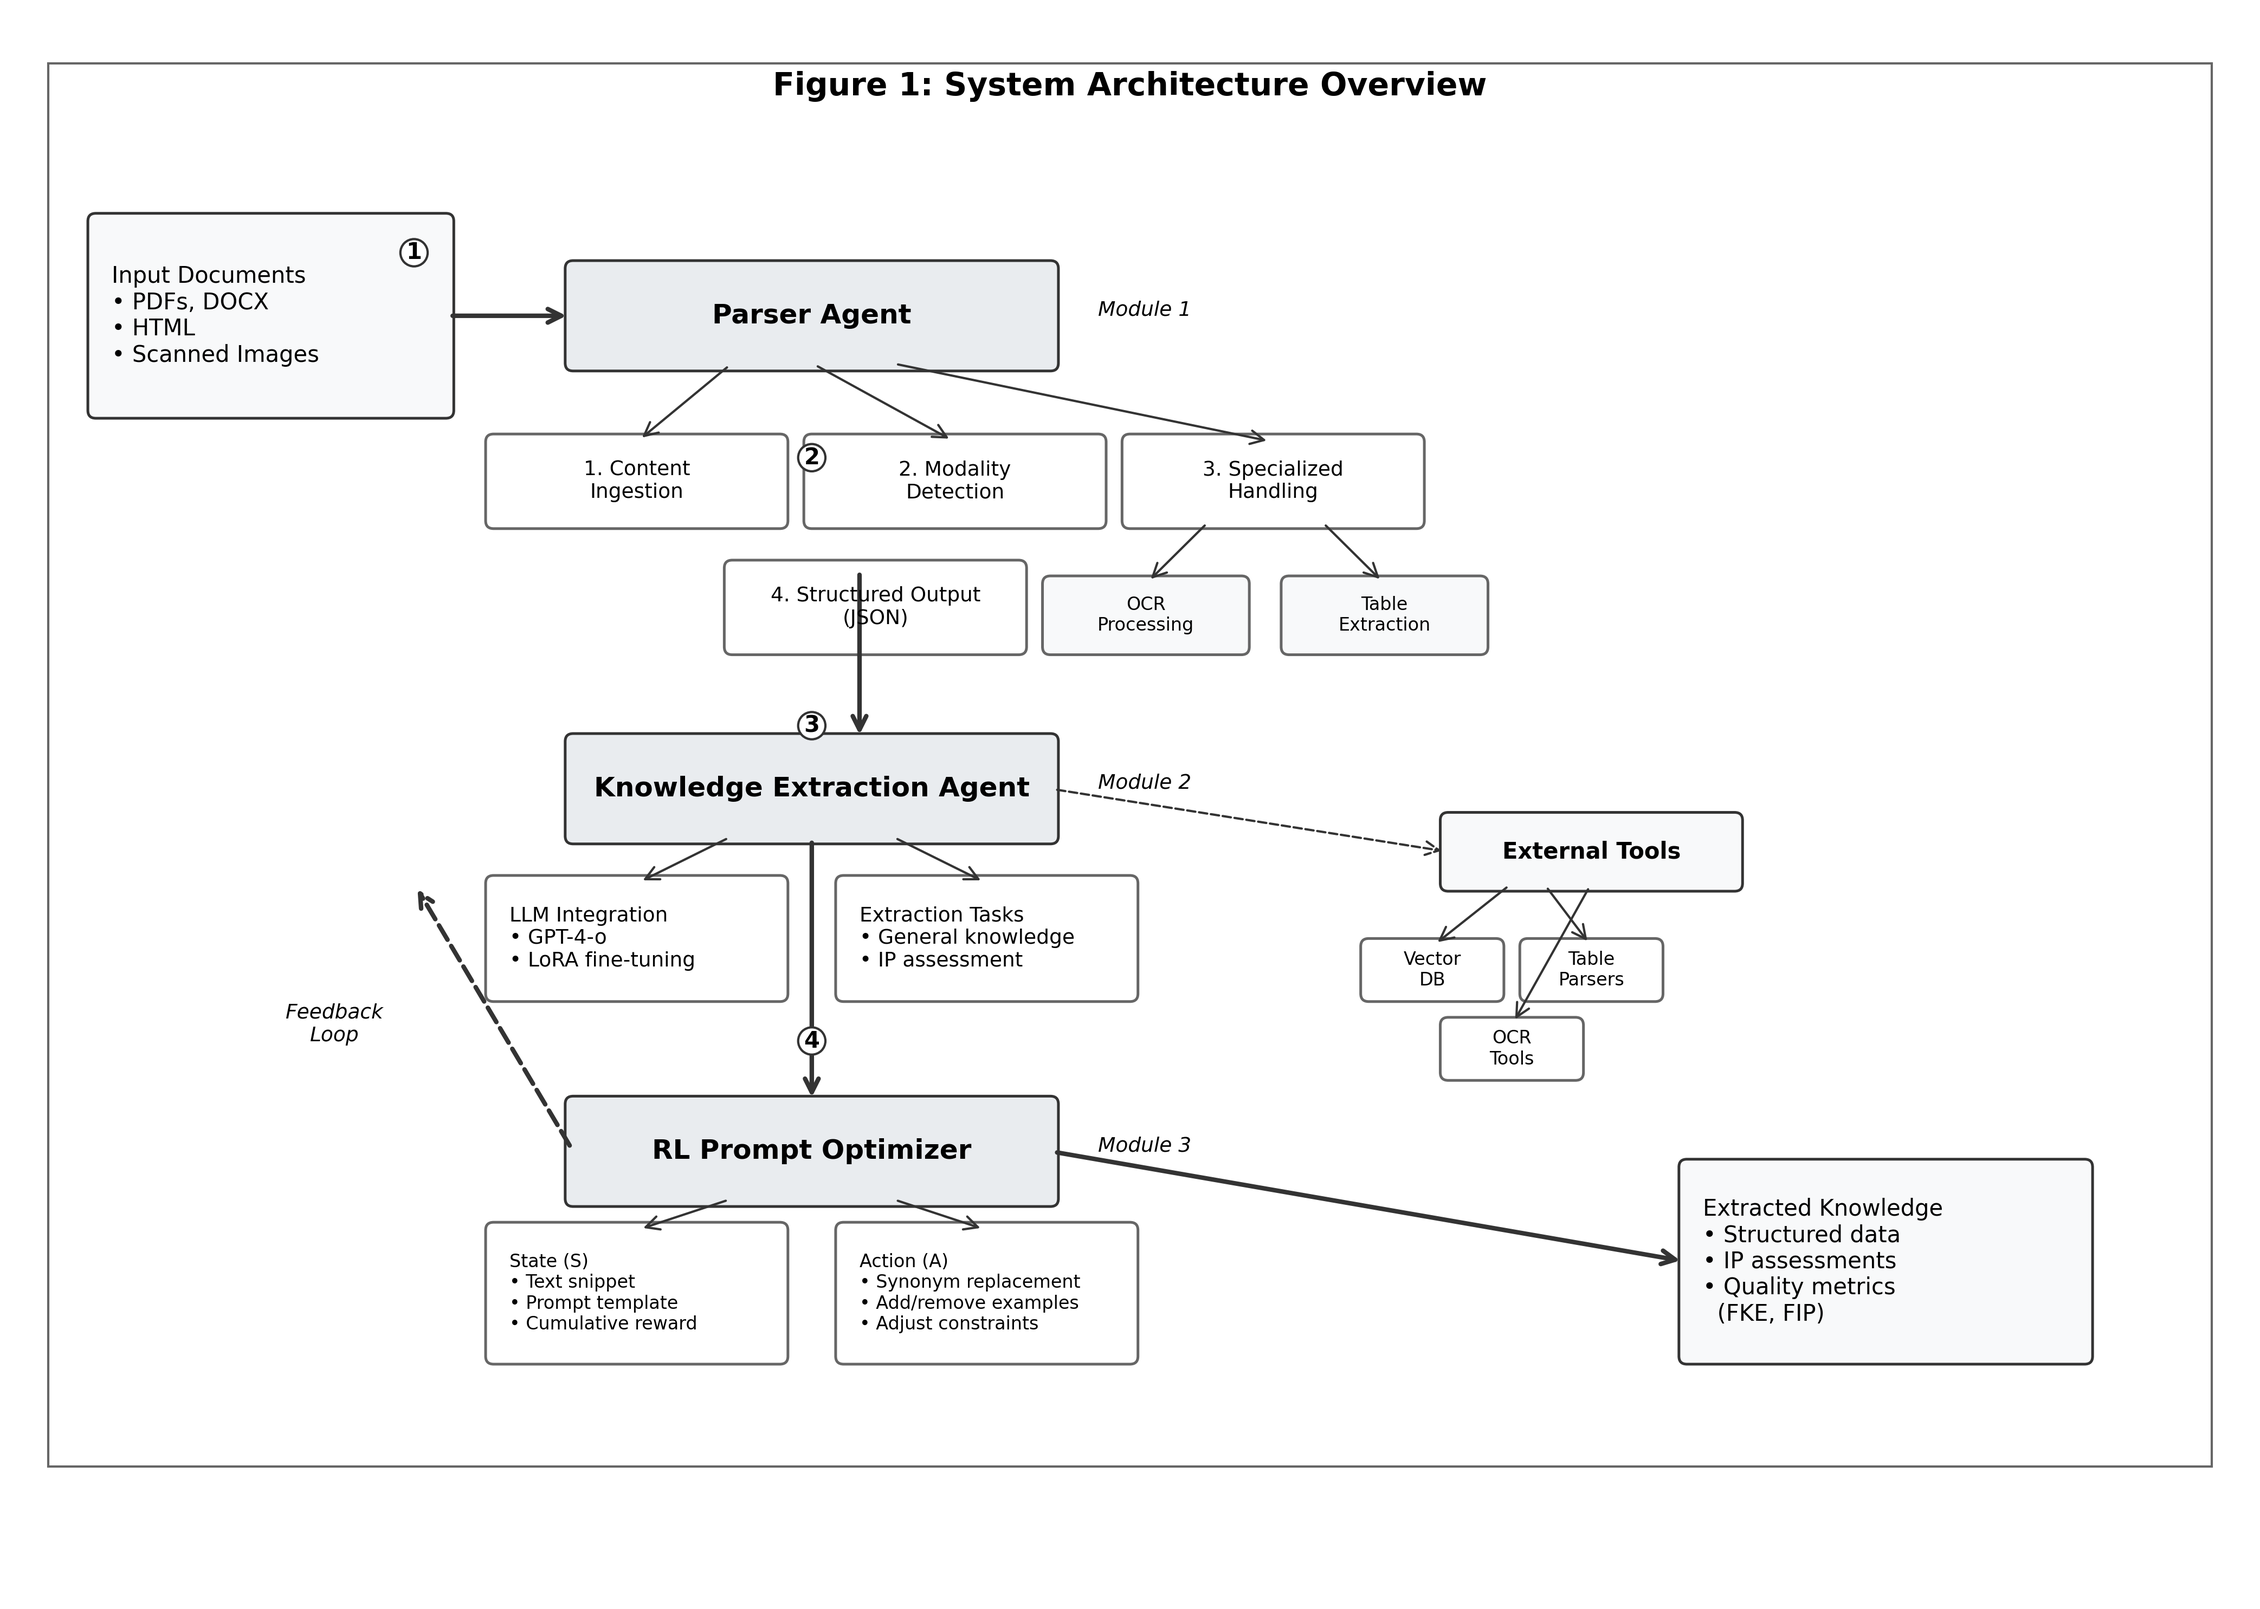
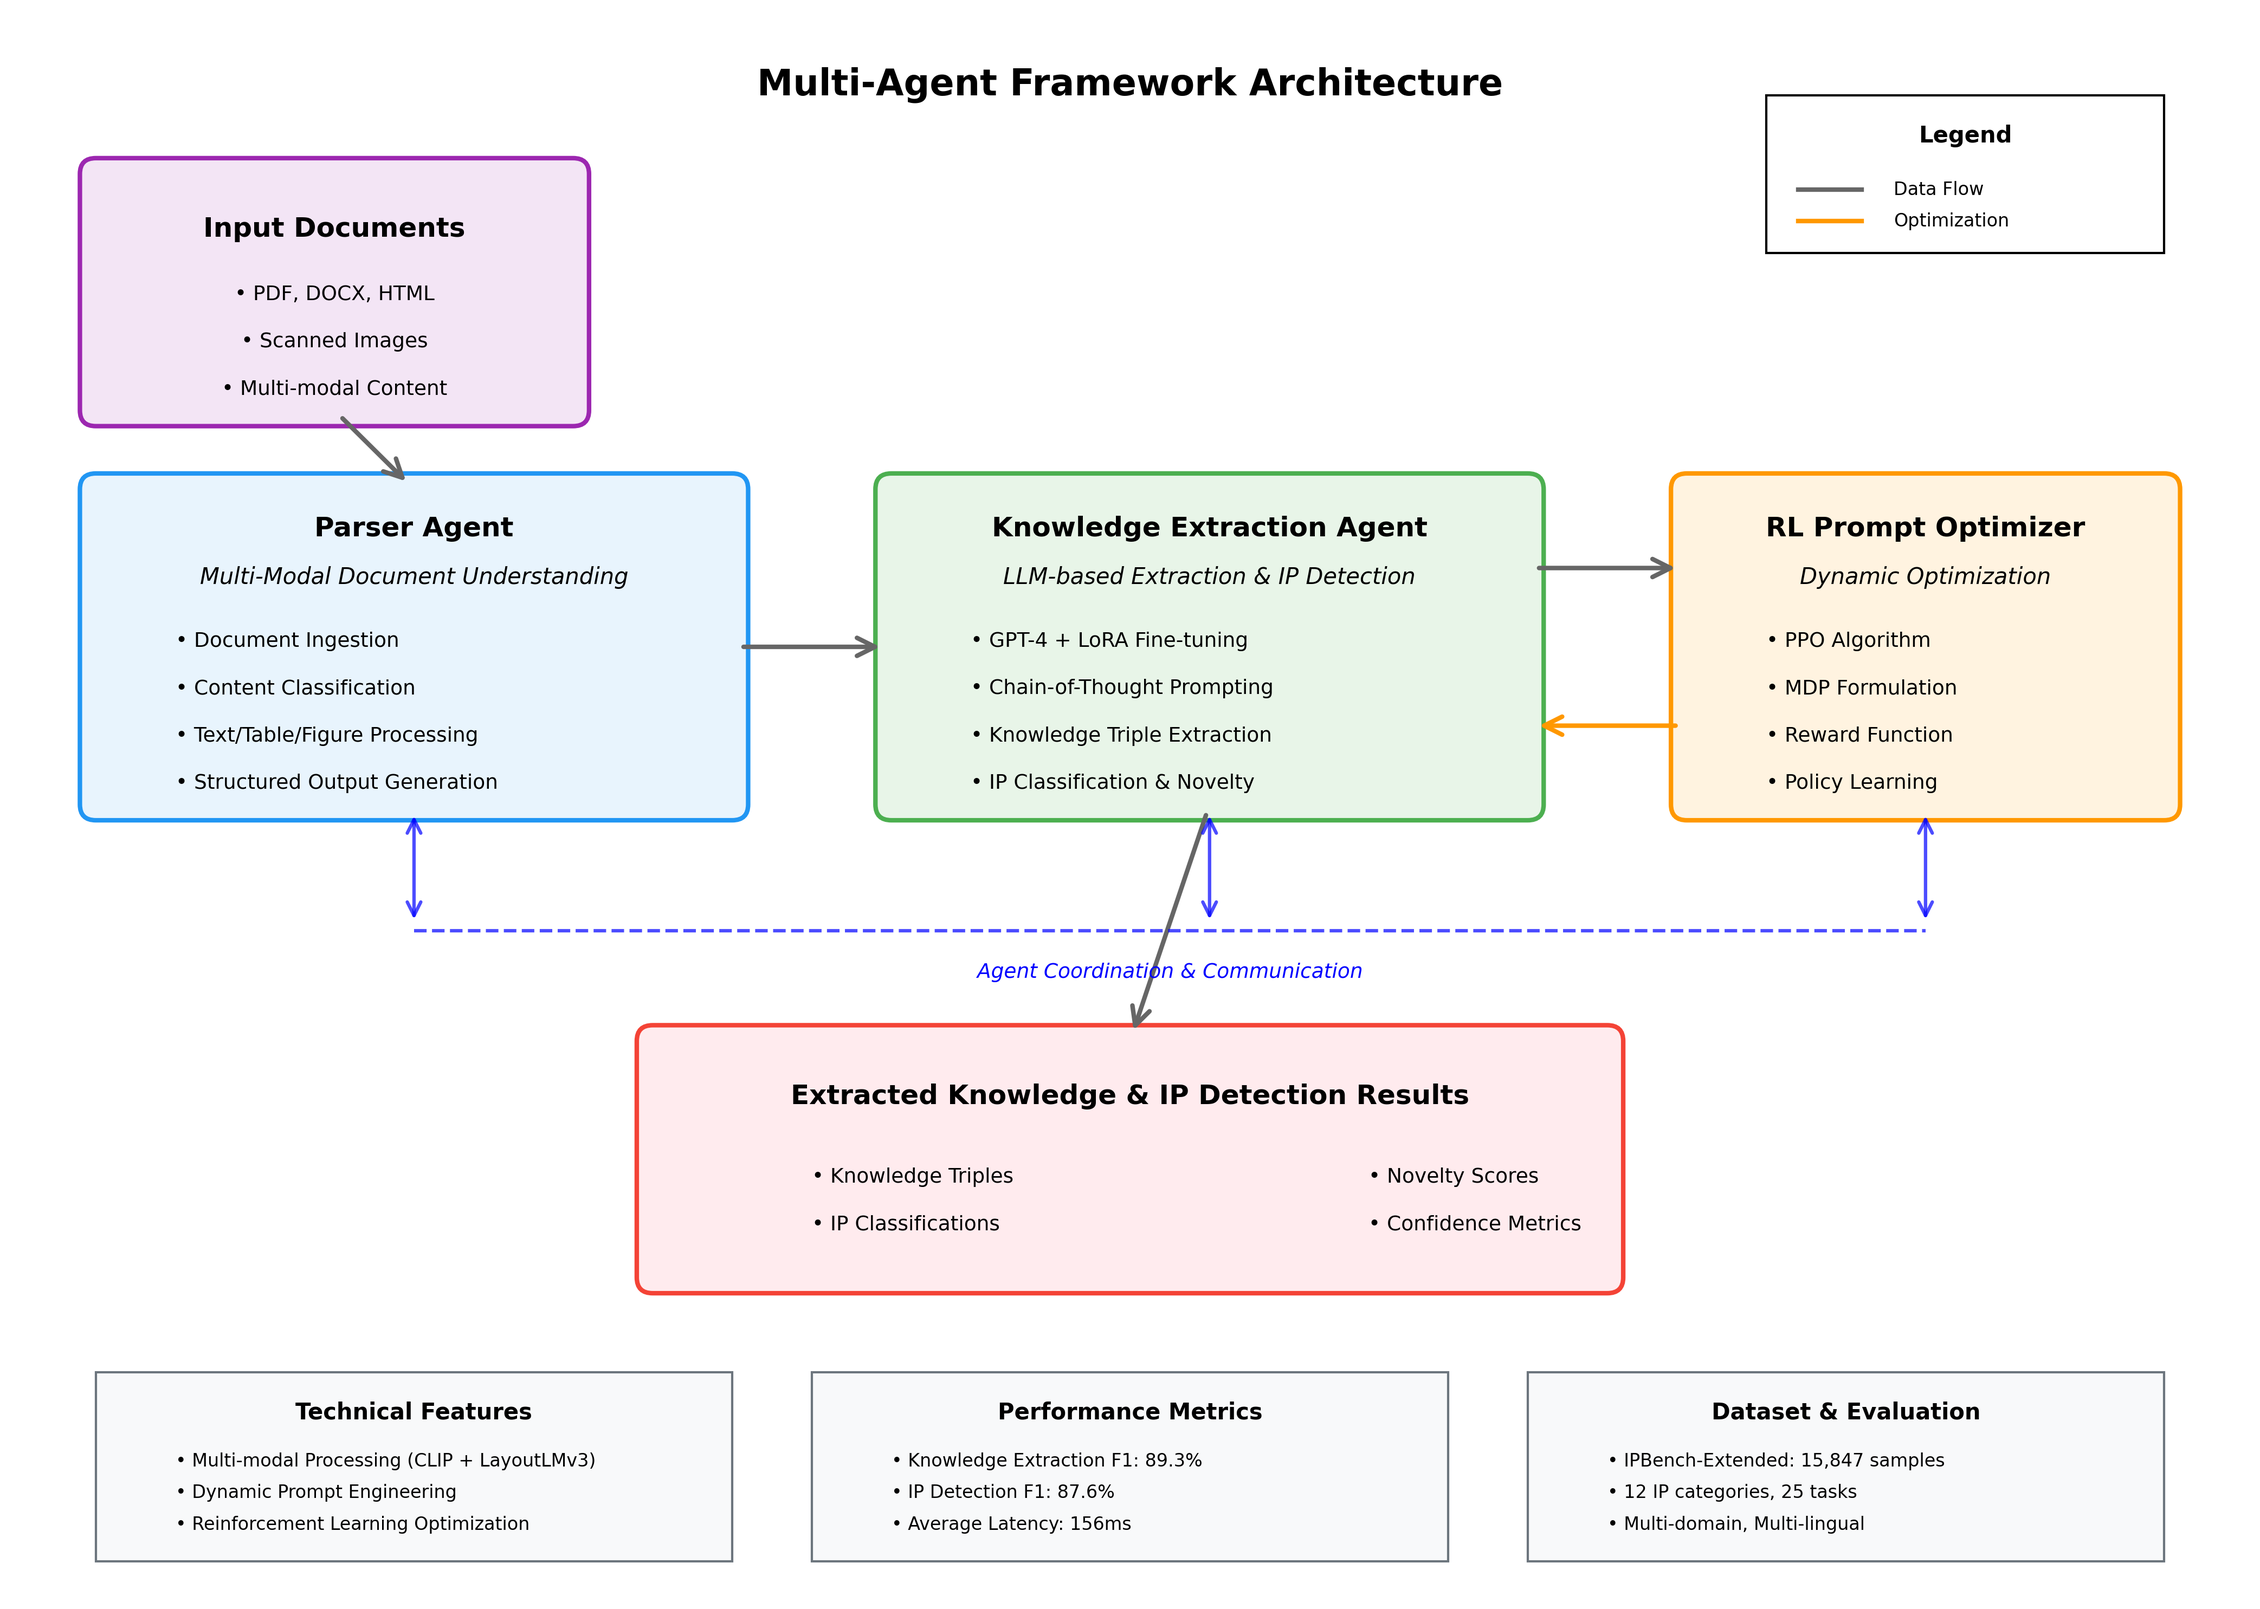
feat: Add script to generate system architecture diagram

diff --git a/generate_architecture.py b/generate_architecture.py
@@ -1,0 +1,206 @@
+#!/usr/bin/env python3
+"""
+Generate System Architecture Diagram for Multi-Agent Framework
+"""
+
+import matplotlib.pyplot as plt
+import matplotlib.patches as patches
+from matplotlib.patches import FancyBboxPatch, ConnectionPatch, Rectangle
+import numpy as np
+
+# Set up the figure with high DPI for publication quality
+plt.rcParams['font.family'] = 'Arial'
+plt.rcParams['font.size'] = 10
+plt.rcParams['figure.dpi'] = 300
+
+fig, ax = plt.subplots(1, 1, figsize=(14, 10))
+ax.set_xlim(0, 14)
+ax.set_ylim(0, 10)
+ax.axis('off')
+
+# Define colors
+colors = {
+    'parser': '#E8F4FD',
+    'parser_border': '#2196F3',
+    'knowledge': '#E8F5E8',
+    'knowledge_border': '#4CAF50',
+    'rl': '#FFF3E0',
+    'rl_border': '#FF9800',
+    'input': '#F3E5F5',
+    'input_border': '#9C27B0',
+    'output': '#FFEBEE',
+    'output_border': '#F44336',
+    'flow': '#666666'
+}
+
+# Title
+ax.text(7, 9.5, 'Multi-Agent Framework Architecture', 
+        fontsize=16, fontweight='bold', ha='center')
+
+# Input Documents Section
+input_box = FancyBboxPatch((0.5, 7.5), 3, 1.5, 
+                          boxstyle="round,pad=0.1", 
+                          facecolor=colors['input'], 
+                          edgecolor=colors['input_border'], 
+                          linewidth=2)
+ax.add_patch(input_box)
+ax.text(2, 8.6, 'Input Documents', fontsize=12, fontweight='bold', ha='center')
+ax.text(2, 8.2, '• PDF, DOCX, HTML', fontsize=9, ha='center')
+ax.text(2, 7.9, '• Scanned Images', fontsize=9, ha='center')
+ax.text(2, 7.6, '• Multi-modal Content', fontsize=9, ha='center')
+
+# Parser Agent Section
+parser_box = FancyBboxPatch((0.5, 5), 4, 2, 
+                           boxstyle="round,pad=0.1", 
+                           facecolor=colors['parser'], 
+                           edgecolor=colors['parser_border'], 
+                           linewidth=2)
+ax.add_patch(parser_box)
+ax.text(2.5, 6.7, 'Parser Agent', fontsize=12, fontweight='bold', ha='center')
+ax.text(2.5, 6.4, 'Multi-Modal Document Understanding', fontsize=10, ha='center', style='italic')
+
+# Parser Agent components
+ax.text(1, 6.0, '• Document Ingestion', fontsize=9, ha='left')
+ax.text(1, 5.7, '• Content Classification', fontsize=9, ha='left')
+ax.text(1, 5.4, '• Text/Table/Figure Processing', fontsize=9, ha='left')
+ax.text(1, 5.1, '• Structured Output Generation', fontsize=9, ha='left')
+
+# Knowledge Extraction Agent Section
+knowledge_box = FancyBboxPatch((5.5, 5), 4, 2, 
+                              boxstyle="round,pad=0.1", 
+                              facecolor=colors['knowledge'], 
+                              edgecolor=colors['knowledge_border'], 
+                              linewidth=2)
+ax.add_patch(knowledge_box)
+ax.text(7.5, 6.7, 'Knowledge Extraction Agent', fontsize=12, fontweight='bold', ha='center')
+ax.text(7.5, 6.4, 'LLM-based Extraction & IP Detection', fontsize=10, ha='center', style='italic')
+
+# Knowledge Agent components
+ax.text(6, 6.0, '• GPT-4 + LoRA Fine-tuning', fontsize=9, ha='left')
+ax.text(6, 5.7, '• Chain-of-Thought Prompting', fontsize=9, ha='left')
+ax.text(6, 5.4, '• Knowledge Triple Extraction', fontsize=9, ha='left')
+ax.text(6, 5.1, '• IP Classification & Novelty', fontsize=9, ha='left')
+
+# RL Prompt Optimizer Section
+rl_box = FancyBboxPatch((10.5, 5), 3, 2, 
+                       boxstyle="round,pad=0.1", 
+                       facecolor=colors['rl'], 
+                       edgecolor=colors['rl_border'], 
+                       linewidth=2)
+ax.add_patch(rl_box)
+ax.text(12, 6.7, 'RL Prompt Optimizer', fontsize=12, fontweight='bold', ha='center')
+ax.text(12, 6.4, 'Dynamic Optimization', fontsize=10, ha='center', style='italic')
+
+# RL components
+ax.text(11, 6.0, '• PPO Algorithm', fontsize=9, ha='left')
+ax.text(11, 5.7, '• MDP Formulation', fontsize=9, ha='left')
+ax.text(11, 5.4, '• Reward Function', fontsize=9, ha='left')
+ax.text(11, 5.1, '• Policy Learning', fontsize=9, ha='left')
+
+# Output Section
+output_box = FancyBboxPatch((4, 2), 6, 1.5, 
+                           boxstyle="round,pad=0.1", 
+                           facecolor=colors['output'], 
+                           edgecolor=colors['output_border'], 
+                           linewidth=2)
+ax.add_patch(output_box)
+ax.text(7, 3.1, 'Extracted Knowledge & IP Detection Results', 
+        fontsize=12, fontweight='bold', ha='center')
+ax.text(5, 2.6, '• Knowledge Triples', fontsize=9, ha='left')
+ax.text(5, 2.3, '• IP Classifications', fontsize=9, ha='left')
+ax.text(8.5, 2.6, '• Novelty Scores', fontsize=9, ha='left')
+ax.text(8.5, 2.3, '• Confidence Metrics', fontsize=9, ha='left')
+
+# Data Flow Arrows
+# Input to Parser
+arrow1 = ConnectionPatch((2, 7.5), (2.5, 7), "data", "data",
+                        arrowstyle="->", shrinkA=5, shrinkB=5, 
+                        mutation_scale=20, fc=colors['flow'], ec=colors['flow'], lw=2)
+ax.add_patch(arrow1)
+
+# Parser to Knowledge
+arrow2 = ConnectionPatch((4.5, 6), (5.5, 6), "data", "data",
+                        arrowstyle="->", shrinkA=5, shrinkB=5, 
+                        mutation_scale=20, fc=colors['flow'], ec=colors['flow'], lw=2)
+ax.add_patch(arrow2)
+
+# Knowledge to RL (feedback loop)
+arrow3 = ConnectionPatch((9.5, 6.5), (10.5, 6.5), "data", "data",
+                        arrowstyle="->", shrinkA=5, shrinkB=5, 
+                        mutation_scale=20, fc=colors['flow'], ec=colors['flow'], lw=2)
+ax.add_patch(arrow3)
+
+# RL back to Knowledge (optimization)
+arrow4 = ConnectionPatch((10.5, 5.5), (9.5, 5.5), "data", "data",
+                        arrowstyle="->", shrinkA=5, shrinkB=5, 
+                        mutation_scale=20, fc=colors['rl_border'], ec=colors['rl_border'], lw=2)
+ax.add_patch(arrow4)
+
+# Knowledge to Output
+arrow5 = ConnectionPatch((7.5, 5), (7, 3.5), "data", "data",
+                        arrowstyle="->", shrinkA=5, shrinkB=5, 
+                        mutation_scale=20, fc=colors['flow'], ec=colors['flow'], lw=2)
+ax.add_patch(arrow5)
+
+# Add coordination arrows between agents
+coord_arrow1 = ConnectionPatch((2.5, 5), (2.5, 4.2), "data", "data",
+                              arrowstyle="<->", shrinkA=5, shrinkB=5, 
+                              mutation_scale=15, fc='blue', ec='blue', lw=1.5, alpha=0.7)
+ax.add_patch(coord_arrow1)
+
+coord_arrow2 = ConnectionPatch((7.5, 5), (7.5, 4.2), "data", "data",
+                              arrowstyle="<->", shrinkA=5, shrinkB=5, 
+                              mutation_scale=15, fc='blue', ec='blue', lw=1.5, alpha=0.7)
+ax.add_patch(coord_arrow2)
+
+coord_arrow3 = ConnectionPatch((12, 5), (12, 4.2), "data", "data",
+                              arrowstyle="<->", shrinkA=5, shrinkB=5, 
+                              mutation_scale=15, fc='blue', ec='blue', lw=1.5, alpha=0.7)
+ax.add_patch(coord_arrow3)
+
+# Coordination line
+ax.plot([2.5, 12], [4.2, 4.2], 'b--', alpha=0.7, linewidth=1.5)
+ax.text(7.25, 3.9, 'Agent Coordination & Communication', 
+        fontsize=9, ha='center', color='blue', style='italic')
+
+# Add technical details boxes
+tech_box1 = Rectangle((0.5, 0.2), 4, 1.2, facecolor='#F8F9FA', 
+                     edgecolor='#6C757D', linewidth=1)
+ax.add_patch(tech_box1)
+ax.text(2.5, 1.1, 'Technical Features', fontsize=10, fontweight='bold', ha='center')
+ax.text(1, 0.8, '• Multi-modal Processing (CLIP + LayoutLMv3)', fontsize=8, ha='left')
+ax.text(1, 0.6, '• Dynamic Prompt Engineering', fontsize=8, ha='left')
+ax.text(1, 0.4, '• Reinforcement Learning Optimization', fontsize=8, ha='left')
+
+tech_box2 = Rectangle((5, 0.2), 4, 1.2, facecolor='#F8F9FA', 
+                     edgecolor='#6C757D', linewidth=1)
+ax.add_patch(tech_box2)
+ax.text(7, 1.1, 'Performance Metrics', fontsize=10, fontweight='bold', ha='center')
+ax.text(5.5, 0.8, '• Knowledge Extraction F1: 89.3%', fontsize=8, ha='left')
+ax.text(5.5, 0.6, '• IP Detection F1: 87.6%', fontsize=8, ha='left')
+ax.text(5.5, 0.4, '• Average Latency: 156ms', fontsize=8, ha='left')
+
+tech_box3 = Rectangle((9.5, 0.2), 4, 1.2, facecolor='#F8F9FA', 
+                     edgecolor='#6C757D', linewidth=1)
+ax.add_patch(tech_box3)
+ax.text(11.5, 1.1, 'Dataset & Evaluation', fontsize=10, fontweight='bold', ha='center')
+ax.text(10, 0.8, '• IPBench-Extended: 15,847 samples', fontsize=8, ha='left')
+ax.text(10, 0.6, '• 12 IP categories, 25 tasks', fontsize=8, ha='left')
+ax.text(10, 0.4, '• Multi-domain, Multi-lingual', fontsize=8, ha='left')
+
+# Add legend for arrow types
+legend_box = Rectangle((11, 8.5), 2.5, 1, facecolor='white', 
+                      edgecolor='black', linewidth=1)
+ax.add_patch(legend_box)
+ax.text(12.25, 9.2, 'Legend', fontsize=10, fontweight='bold', ha='center')
+ax.plot([11.2, 11.6], [8.9, 8.9], color=colors['flow'], linewidth=2)
+ax.text(11.8, 8.9, 'Data Flow', fontsize=8, va='center')
+ax.plot([11.2, 11.6], [8.7, 8.7], color=colors['rl_border'], linewidth=2)
+ax.text(11.8, 8.7, 'Optimization', fontsize=8, va='center')
+
+plt.tight_layout()
+plt.savefig('system_architecture.png', dpi=300, bbox_inches='tight', 
+            facecolor='white', edgecolor='none')
+plt.close()
+
+print("System architecture diagram saved as 'system_architecture.png'")
